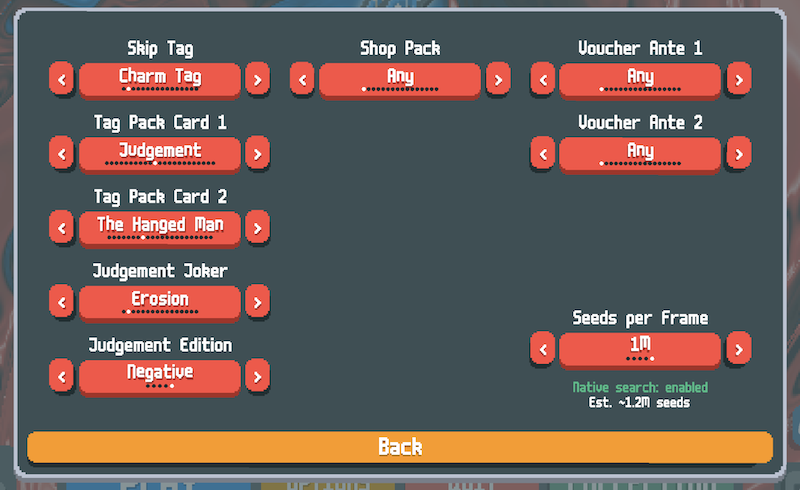
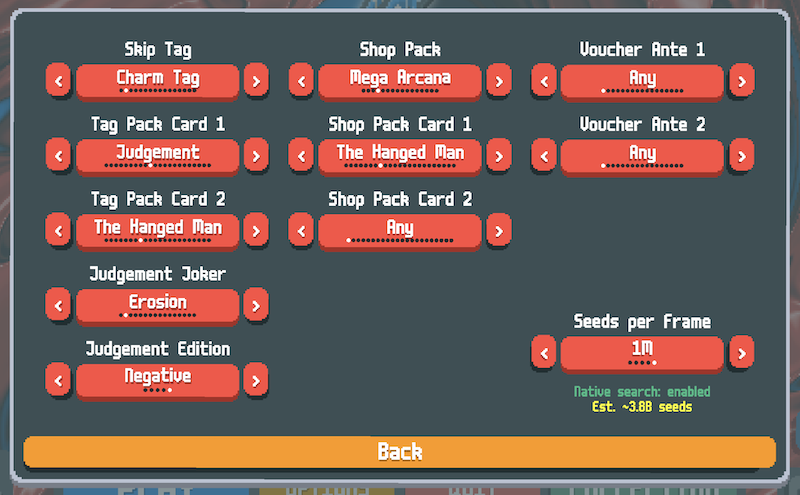
Add bidirectional card exclusion and live estimate colour updates
- Card 1 and card 2 selectors now mutually exclude each other's selection
- Estimate text colour updates in place via shared table reference,
  working reliably for all selector changes including editions
- Extract estimate_colour helper and move before settings_panel
- Fix fix_card2_index to skip exclusion when label is "Any"
- Update screenshots and README captions

Changed region(s): [[0.0, 0.0, 1.0, 1.0], [0.3438, 0.9796, 0.4688, 1.0], [0.1562, 0.9796, 0.25, 1.0]]

diff --git a/README.md b/README.md
@@ -4,17 +4,17 @@ A [Balatro](https://www.playbalatro.com/) mod for searching game seeds that matc
 
 Requires the [Lovely](https://github.com/ethangreen-dev/lovely-injector) mod loader.
 
-*Charm Tag with Judgement + The Hanged Man, searching for a Negative Erosion:*
+*Charm Tag with Judgement + The Hanged Man, Mega Arcana shop pack with The Hanged Man, filtering for a Negative Erosion from Judgement:*
 
 ![Judgement joker and edition filtering](screenshots/settings1.png)
 
-*Mega Spectral pack with The Soul + Ankh, Director's Cut voucher, and Chicot legendary:*
+*Charm Tag with The Soul + Temperance, Mega Spectral with Ankh, Director's Cut voucher, and Chicot legendary:*
 
 ![Shop pack cards, vouchers, and legendary filtering](screenshots/settings2.png)
 
-*The Soul + Judgement in the tag pack, filtering for Negative Blueprint and Perkeo legendary:*
+*The Soul + Temperance in the tag pack, Mega Spectral with Immolate, Telescope + Observatory vouchers, and Perkeo legendary — estimate in yellow at ~10.3B seeds:*
 
-![Combined tag pack, legendary, and Judgement filters](screenshots/settings3.png)
+![Combined filters with colour-coded estimate](screenshots/settings3.png)
 
 *The search overlay shows a running count of seeds checked vs. the estimated total, an elapsed timer, and the cumulative probability that a match should have been found by now:*
 
